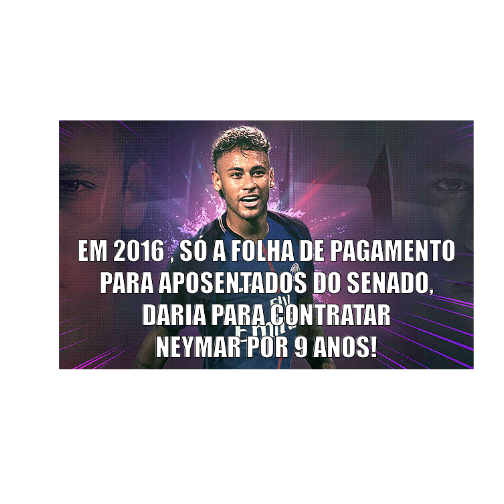
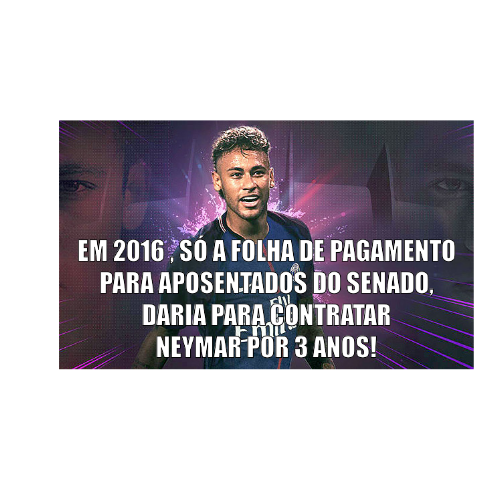
site atualizado

Changed region(s): [[0.2976, 0.6548, 0.744, 0.7143]]

diff --git a/_site/2017/08/o-que-da-para-fazer.html b/_site/2017/08/o-que-da-para-fazer.html
@@ -42,7 +42,7 @@
   <li><strong>Quanto vale a remuneração dos deputados?</strong></li>
 </ul>
 
-<p>Para se ter noção dos elevados salários dos deputados, se considerarmos a remuneração líquida de todos eles em  2016, isto é, a remuneração já descontada do imposto de renda, seria o suficiente para custear 3.3015 × 10<sup>4</sup> alunos de doutorado com bolsa CAPES (R$ 2.200,00) por 687 anos, de acordo com os dados coletados do site da transparência da Câmara.</p>
+<p>Para se ter noção dos elevados salários dos deputados, se considerarmos a remuneração líquida de todos eles em  2016, isto é, a remuneração já descontada do imposto de renda, seria o suficiente para custear 687 alunos de doutorado com bolsa CAPES (R$ 2.200,00) por quatro anos, de acordo com os dados coletados do site da transparência da Câmara.</p>
 
 <p><img src="/blogfigure/source/09-o-que-da-para-fazer/2017-08-03-o-que-da-para-fazer/capes-1.png" alt="" /></p>
 
@@ -54,7 +54,7 @@
   <li><strong>Quanto vale a Licença-Prêmio de apenas dez servidores?</strong></li>
 </ul>
 
-<p>A licença-prêmio é um antigo direito garantido por lei que ainda benecifia diversos servidores do Senado. Para se ter uma ideia, somente em 2017, os dez servidores mais beneficiados pela Licença-prêmio daria para adquirir 27 ambulâncias.</p>
+<p>A licença-prêmio foi um antigo direito garantido por lei que ainda benecifia diversos servidores. Para se ter uma ideia, somente em 2017, os dez servidores mais beneficiados pela Licença-prêmio no Senado, daria para adquirir 27 ambulâncias. Nesse caso, os valores de Licença-prêmio utilizados nessa equação foram os valores brutos (isto é, sem os descontos).</p>
 
 <p><img src="/blogfigure/source/09-o-que-da-para-fazer/2017-08-03-o-que-da-para-fazer/samu-1.png" alt="" /></p>
 
@@ -68,6 +68,8 @@
   <li><strong>O que um deputado tem a ver com empregado(as) domésticos(as)?</strong></li>
 </ul>
 
+<p>Para se ter uma ideia das elevadas remunerações dos servidores da Câmara, o deputado com maior remuneração em  2016 foi  WLADIMIR AFONSO DA COSTA RABELO, totalizando R$ 4.0910131 × 10<sup>5</sup> mil. Isso corresponde a contribuição de 284 empregados(as) domésticos(as) ao INSS por um ano! Em nossos cálculos, utilizamos R$ 120 como valor de contribuição por empregado, tendo como base um salário de R$ 1.500,00 e 8% de contribuição ao imposto de renda.</p>
+
 <p><img src="/blogfigure/source/09-o-que-da-para-fazer/2017-08-03-o-que-da-para-fazer/empregado-1.png" alt="" /></p>
 
 <p>Informação complementar:</p>
@@ -77,6 +79,8 @@
 <ul>
   <li><strong>Quantos hospitais dariam para construir?</strong></li>
 </ul>
+
+<p>Para se ter uma ideia do montante pago em salários na Câmara e no Senado em 2016, já com os descontos de imposto de renda, daria para construir 8 hospitais equipados com: 400 leitos, sendo 50 Unidades de Tratamento Intensivo (UTI), 30 semi-intensivos, 10 UTIs Pediátricas, 10 UTIs neonatais, 15 Unidades de Cuidados Intensivos Neonatais (Ucin), 40 de maternidade, 125 de enfermaria e 120 de retaguarda. Nessa análise, consideramos o custo de construir um hospital com essa estrutura por R$ 287 MILHÕES, visto que, a construção do Hospital Geral de Cariacica com essa mesma estrutura custou R$ 270 milhões em 2016. Considerando a inflação de 6,29% em 2016, temos o valor de referência para construção de um hospital nesses mesmos parâmetros em 2017 por R$ 287.</p>
 
 <p><img src="/blogfigure/source/09-o-que-da-para-fazer/2017-08-03-o-que-da-para-fazer/hospital-1.png" alt="" /></p>
 
@@ -90,11 +94,17 @@
   <li><strong>Qual a vazão de pagamento da Câmara e do Senado por segundo?</strong></li>
 </ul>
 
+<p>Você tem idiea de quanto o contribuinte tem que desenbolsar a cada <strong>segundo</strong> para manter a remuneração de todos os servidores da Câmara e do Senado? Exatos R$ 81.2 por segundo! Pode parecer pouco, mas por dia chega a R$ 7 MILHÕES! Em 2016, foram R$ 2.6 BILHÕES, isso já descontando de impostos e sem considerar todos os servidores, pois não foi possível localizar no portal da transparência do Senado, os valores de remuneração dos senadores.</p>
+
+<figure class="highlight"><pre><code class="language-text" data-lang="text">## Error in paste(texto, "\nR$", gastos_minuto, "MIL por minuto!"): objeto 'gastos_minuto' não encontrado</code></pre></figure>
+
 <p><img src="/blogfigure/source/09-o-que-da-para-fazer/2017-08-03-o-que-da-para-fazer/brasilia-1.png" alt="" /></p>
 
 <ul>
   <li><strong>A folha de pagamento do Senado para aposentados é mesmo alta?</strong></li>
 </ul>
+
+<p>Recentemente noticiou a milionária contratação do jogador de futebol Neymar, surpreendendo várias pessoas pelo enorme salário anual de aproxidamente R$ 110 milhões. Entretanto, esse valor parece pequeno quando comparado ao pagamento do Senado aos aposentados, considerando a folha de pagamento de 2016, só o que foi pago a aposentados daria para contratar o Neymar por 3 anos! Ou seja, o Senado efetuou o pagamento de R$ 1.0692086 × 10<sup>9</sup> MILHÕES em 2016 para aposentados.</p>
 
 <p><img src="/blogfigure/source/09-o-que-da-para-fazer/2017-08-03-o-que-da-para-fazer/neymar-1.png" alt="" /></p>
 

diff --git a/_posts/2017-08-03-o-que-da-para-fazer.md b/_posts/2017-08-03-o-que-da-para-fazer.md
@@ -17,7 +17,7 @@ layout: post
 
 
 
-Para se ter noção dos elevados salários dos deputados, se considerarmos a remuneração líquida de todos eles em  2016, isto é, a remuneração já descontada do imposto de renda, seria o suficiente para custear 3.3015 &times; 10<sup>4</sup> alunos de doutorado com bolsa CAPES (R$ 2.200,00) por 687 anos, de acordo com os dados coletados do site da transparência da Câmara.
+Para se ter noção dos elevados salários dos deputados, se considerarmos a remuneração líquida de todos eles em  2016, isto é, a remuneração já descontada do imposto de renda, seria o suficiente para custear 687 alunos de doutorado com bolsa CAPES (R$ 2.200,00) por quatro anos, de acordo com os dados coletados do site da transparência da Câmara.
 
 ![](/blogfigure/source/09-o-que-da-para-fazer/2017-08-03-o-que-da-para-fazer/capes-1.png)
 
@@ -32,7 +32,7 @@ Informação complementar:
 
 
 
-A licença-prêmio é um antigo direito garantido por lei que ainda benecifia diversos servidores do Senado. Para se ter uma ideia, somente em 2017, os dez servidores mais beneficiados pela Licença-prêmio daria para adquirir 27 ambulâncias.
+A licença-prêmio foi um antigo direito garantido por lei que ainda benecifia diversos servidores. Para se ter uma ideia, somente em 2017, os dez servidores mais beneficiados pela Licença-prêmio no Senado, daria para adquirir 27 ambulâncias. Nesse caso, os valores de Licença-prêmio utilizados nessa equação foram os valores brutos (isto é, sem os descontos).
 
 ![](/blogfigure/source/09-o-que-da-para-fazer/2017-08-03-o-que-da-para-fazer/samu-1.png)
 
@@ -43,7 +43,13 @@ Informação complementar:
 [Sindilegis solicita ao Senado e TCU conversão da licença-prêmio não usufruída em pecúnia (acessado em 7 de agosto de 2017)](https://sindilegis.org.br/noticias/sindilegis-solicita-ao-senado-e-tcu-conversao-da-licenaa-pramio-nao-usufrua-da-em-pecania/388)
 
 
+
+
 * **O que um deputado tem a ver com empregado(as) domésticos(as)?**
+
+
+
+Para se ter uma ideia das elevadas remunerações dos servidores da Câmara, o deputado com maior remuneração em  2016 foi  WLADIMIR AFONSO DA COSTA RABELO, totalizando R$ 4.0910131 &times; 10<sup>5</sup> mil. Isso corresponde a contribuição de 284 empregados(as) domésticos(as) ao INSS por um ano! Em nossos cálculos, utilizamos R$ 120 como valor de contribuição por empregado, tendo como base um salário de R$ 1.500,00 e 8% de contribuição ao imposto de renda.
 
 ![](/blogfigure/source/09-o-que-da-para-fazer/2017-08-03-o-que-da-para-fazer/empregado-1.png)
 
@@ -56,6 +62,9 @@ Informação complementar:
 
 * **Quantos hospitais dariam para construir?**
 
+
+Para se ter uma ideia do montante pago em salários na Câmara e no Senado em 2016, já com os descontos de imposto de renda, daria para construir 8 hospitais equipados com: 400 leitos, sendo 50 Unidades de Tratamento Intensivo (UTI), 30 semi-intensivos, 10 UTIs Pediátricas, 10 UTIs neonatais, 15 Unidades de Cuidados Intensivos Neonatais (Ucin), 40 de maternidade, 125 de enfermaria e 120 de retaguarda. Nessa análise, consideramos o custo de construir um hospital com essa estrutura por R$ 287 MILHÕES, visto que, a construção do Hospital Geral de Cariacica com essa mesma estrutura custou R$ 270 milhões em 2016. Considerando a inflação de 6,29% em 2016, temos o valor de referência para construção de um hospital nesses mesmos parâmetros em 2017 por R$ 287.
+
 ![](/blogfigure/source/09-o-que-da-para-fazer/2017-08-03-o-que-da-para-fazer/hospital-1.png)
 
 Informação complementar:
@@ -66,7 +75,18 @@ Informação complementar:
 
 
 
+
+
 * **Qual a vazão de pagamento da Câmara e do Senado por segundo?**
+
+
+
+Você tem idiea de quanto o contribuinte tem que desenbolsar a cada **segundo** para manter a remuneração de todos os servidores da Câmara e do Senado? Exatos R$ 81.2 por segundo! Pode parecer pouco, mas por dia chega a R$ 7 MILHÕES! Em 2016, foram R$ 2.6 BILHÕES, isso já descontando de impostos e sem considerar todos os servidores, pois não foi possível localizar no portal da transparência do Senado, os valores de remuneração dos senadores.
+
+
+{% highlight text %}
+## Error in paste(texto, "\nR$", gastos_minuto, "MIL por minuto!"): objeto 'gastos_minuto' não encontrado
+{% endhighlight %}
 
 ![](/blogfigure/source/09-o-que-da-para-fazer/2017-08-03-o-que-da-para-fazer/brasilia-1.png)
 
@@ -75,6 +95,9 @@ Informação complementar:
 
 
 * **A folha de pagamento do Senado para aposentados é mesmo alta?**
+
+
+Recentemente noticiou a milionária contratação do jogador de futebol Neymar, surpreendendo várias pessoas pelo enorme salário anual de aproxidamente R$ 110 milhões. Entretanto, esse valor parece pequeno quando comparado ao pagamento do Senado aos aposentados, considerando a folha de pagamento de 2016, só o que foi pago a aposentados daria para contratar o Neymar por 3 anos! Ou seja, o Senado efetuou o pagamento de R$ 1.0692086 &times; 10<sup>9</sup> MILHÕES em 2016 para aposentados.
 
 ![](/blogfigure/source/09-o-que-da-para-fazer/2017-08-03-o-que-da-para-fazer/neymar-1.png)
 
